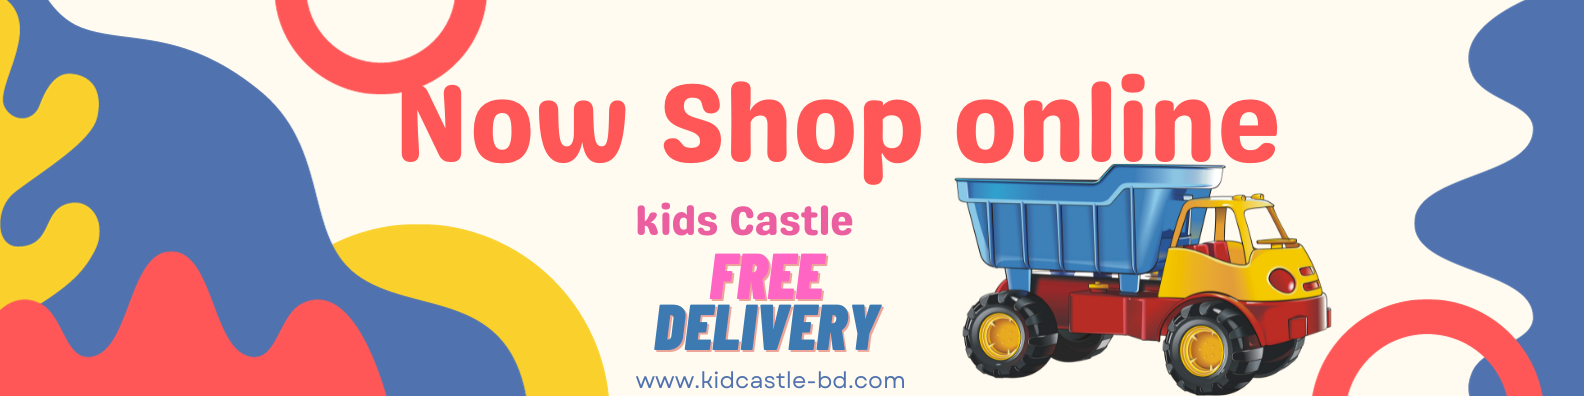
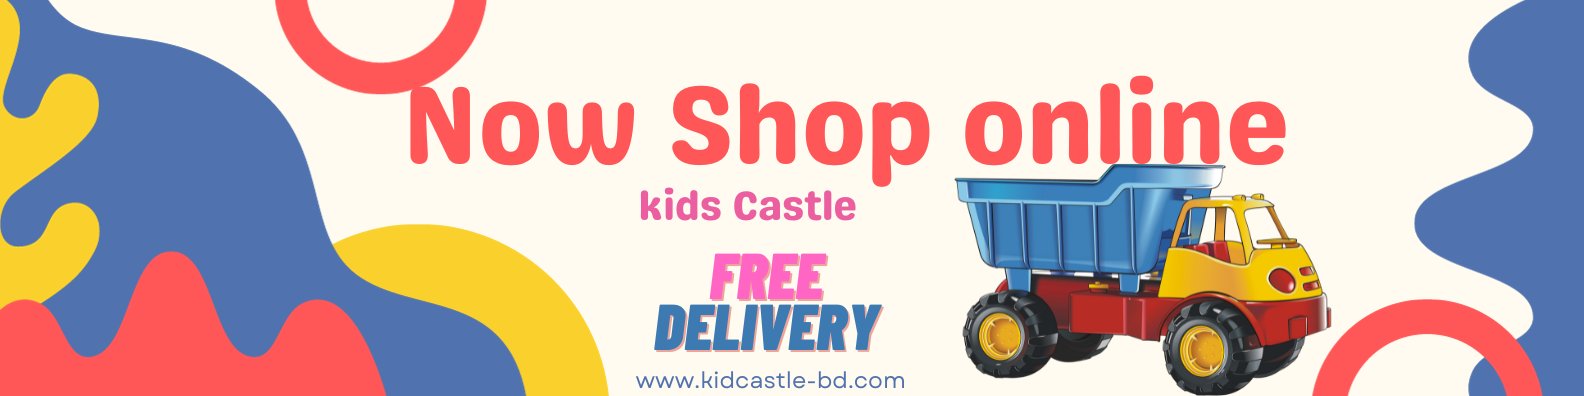
gallery section added

Changed region(s): [[0.2475, 0.1818, 0.8352, 0.6061]]

diff --git a/src/Pages/HomePage/ImageGallery.jsx b/src/Pages/HomePage/ImageGallery.jsx
@@ -1,0 +1,38 @@
+import React from 'react';
+import 'animate.css';
+import './CustomStyle.css';
+import photo1 from '../../assets/home/photo-gallery/gallery-image-1.jpg';
+import photo2 from '../../assets/home/photo-gallery/gallery-image-2.jpg';
+import photo3 from '../../assets/home/photo-gallery/gallery-image-3.jpg';
+import photo4 from '../../assets/home/photo-gallery/gallery-image-4.jpg';
+import photo5 from '../../assets/home/photo-gallery/gallery-image-5.jpg';
+import photo6 from '../../assets/home/photo-gallery/gallery-image-6.jpg';
+import photo7 from '../../assets/home/photo-gallery/gallery-image-7.jpg';
+import photo8 from '../../assets/home/photo-gallery/gallery-image-8.jpg';
+import photo9 from '../../assets/home/photo-gallery/gallery-image-9.jpg';
+import photo10 from '../../assets/home/photo-gallery/gallery-image-10.jpg';
+import photo11 from '../../assets/home/photo-gallery/gallery-image-12.jpg';
+
+
+const ImageGallery = () => {
+    return (
+        <>
+            <h1 className='text-xl animate__animated animate__fadeInDown animate__slow md:text-4xl lg:text-7xl font-semibold text-center my-5'>Some Precious Moment&apos;s of Our Happy Children&apos;s!</h1>
+            <div className='px-3 lg:px-10 gallery-image-container'>
+                <img className='image1' src={photo1} alt="" />
+                <img className='image2' src={photo2} alt="" />
+                <img className='image3' src={photo3} alt="" />
+                <img className='image4' src={photo4} alt="" />
+                <img className='image5' src={photo5} alt="" />
+                <img className='image6' src={photo6} alt="" />
+                <img className='image7' src={photo7} alt="" />
+                <img className='image8' src={photo8} alt="" />
+                <img className='image9' src={photo9} alt="" />
+                <img className='image10' src={photo10} alt="" />
+                <img className='image11' src={photo11} alt="" />
+            </div>
+        </>
+    );
+};
+
+export default ImageGallery;

diff --git a/src/Pages/HomePage/CustomStyle.css b/src/Pages/HomePage/CustomStyle.css
@@ -1,0 +1,84 @@
+.image1 {
+    grid-area: image1;
+}
+
+.image2 {
+    grid-area: image2;
+}
+
+.image3 {
+    grid-area: image3;
+}
+
+.image4 {
+    grid-area: image4;
+}
+
+.image5 {
+    grid-area: image5;
+}
+
+.image6 {
+    grid-area: image6;
+}
+
+.image7 {
+    grid-area: image7;
+}
+
+.image8 {
+    grid-area: image8;
+}
+
+.image9 {
+    grid-area: image9;
+}
+
+.image10 {
+    grid-area: image10;
+}
+
+.image11 {
+    grid-area: image11;
+}
+
+.gallery-image-container {
+    display: grid;
+    gap: 10px;
+    grid-template-columns: 1fr 1fr 1fr 1fr;
+    grid-template-areas:
+        "image1 image2 image3 image8"
+        "image1 image7 image6 image8"
+        "image9 image4 image10 image11"
+        "image9 image5 image10 image11"
+    ;
+}
+
+@media screen and (max-width: 576px) {
+    .gallery-image-container {
+        grid-template-columns: 1fr 1fr;
+        grid-template-areas:
+            "image1 image2"
+            "image1 image3"
+            "image8 image6"
+            "image8 image7"
+            "image4 image10"
+            "image5 image10"
+            "image9 image11"
+        ;
+
+    }
+
+}
+
+@media screen and (min-width: 577px) and (max-width: 992px) {
+    .container {
+        grid-template-columns: 1fr 1fr 1fr;
+        grid-template-areas:
+            "image1 image2 image3"
+            "image1 image6 image7"
+            "image4 image5 image8"
+            "image9 image10 image11"
+        ;
+    }
+}

diff --git a/src/Pages/HomePage/Banner.jsx b/src/Pages/HomePage/Banner.jsx
@@ -5,7 +5,7 @@ import img3 from '../../assets/home/banner/banner-3.png';
 
 const Banner = () => {
     return (
-        <div className='mb-14'>
+        <div className='mb-7 lg:mb-14'>
             <div className="carousel w-full">
                 <div id="slide1" className="carousel-item relative w-full">
                     <img src={img1} className="w-full" />

diff --git a/src/Pages/HomePage/Home.jsx b/src/Pages/HomePage/Home.jsx
@@ -1,12 +1,14 @@
 import React from 'react';
 import UseTitle from '../../CustomHooks/UseTitle';
 import Banner from './Banner';
+import ImageGallery from './ImageGallery';
 
 const Home = () => {
     UseTitle('Home');
     return (
         <div>
             <Banner></Banner>
+            <ImageGallery></ImageGallery>
         </div>
     );
 };
